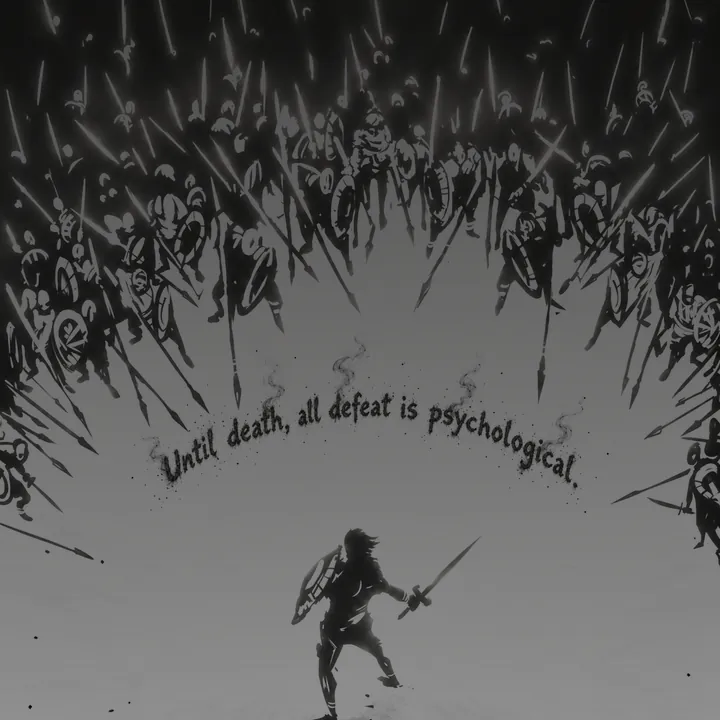
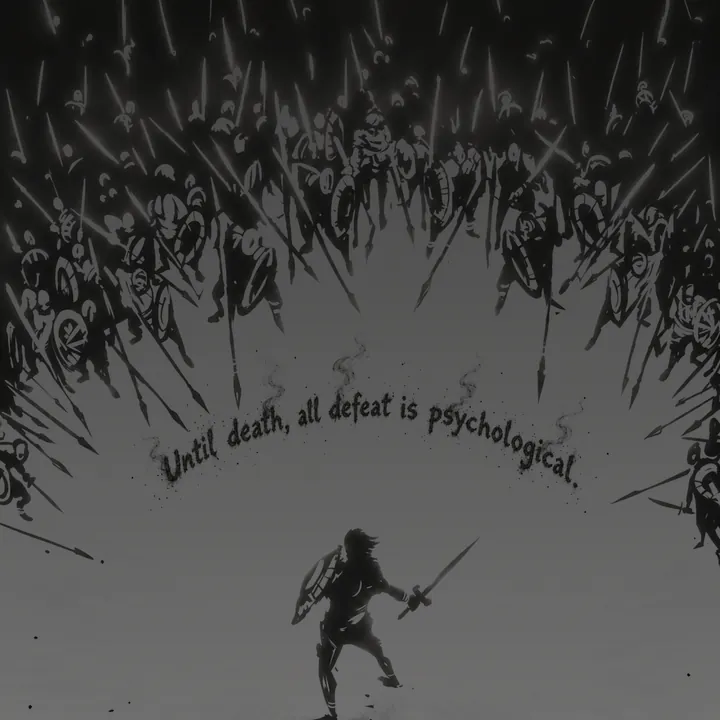
Daily Motivation: the picture a step darker, the date white (31b)

diff --git a/apps/mobile/src/screens/dashboard/Clock.tsx b/apps/mobile/src/screens/dashboard/Clock.tsx
@@ -27,7 +27,9 @@ export function Clock() {
       <Txt kind="h1" style={styles.time}>
         {time}
       </Txt>
-      <Txt kind="small">{date}</Txt>
+      <Txt kind="small" colour="text">
+        {date}
+      </Txt>
     </View>
   );
 }
